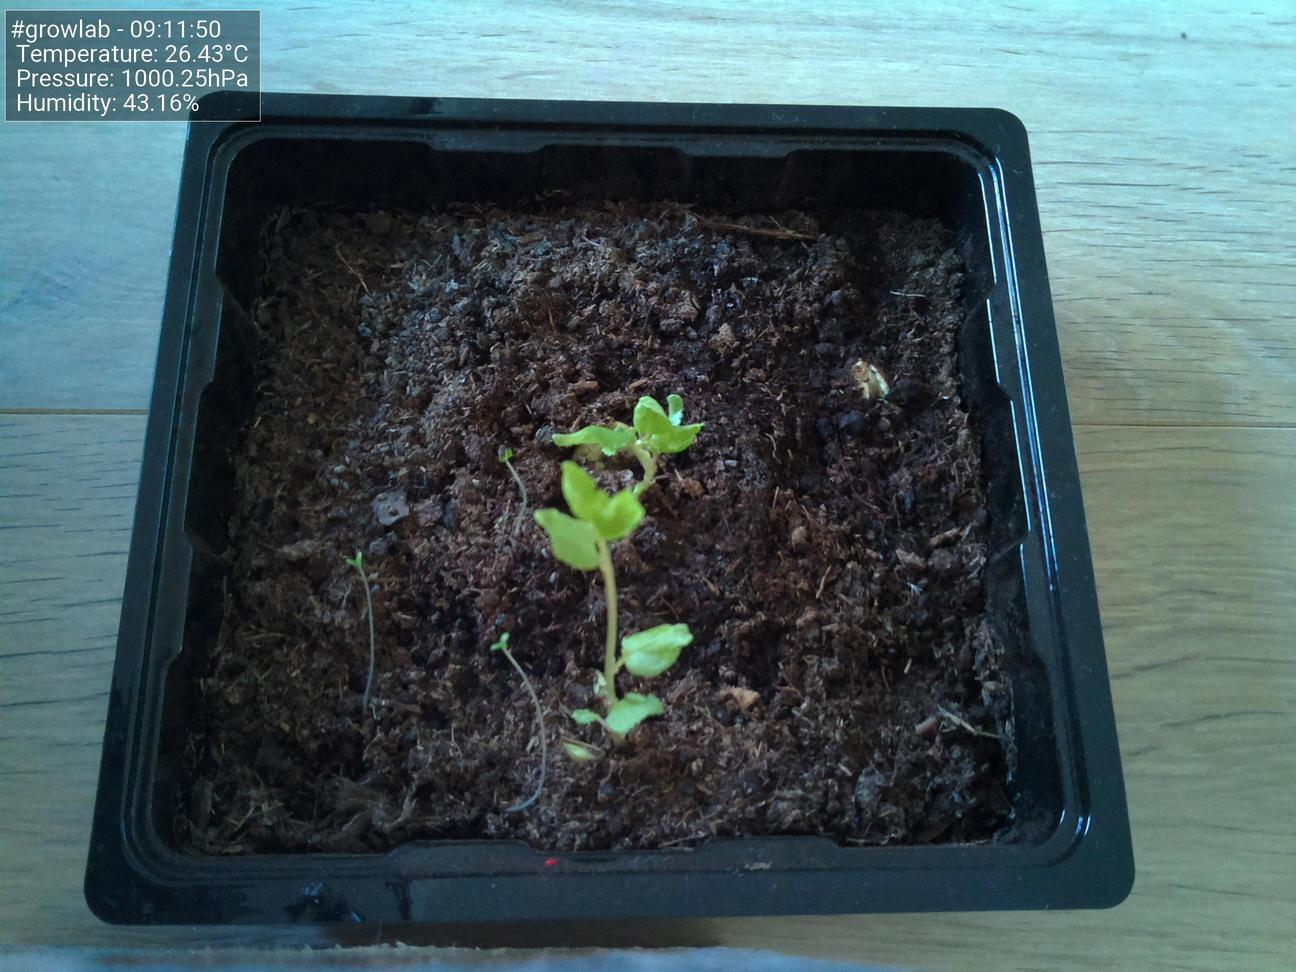
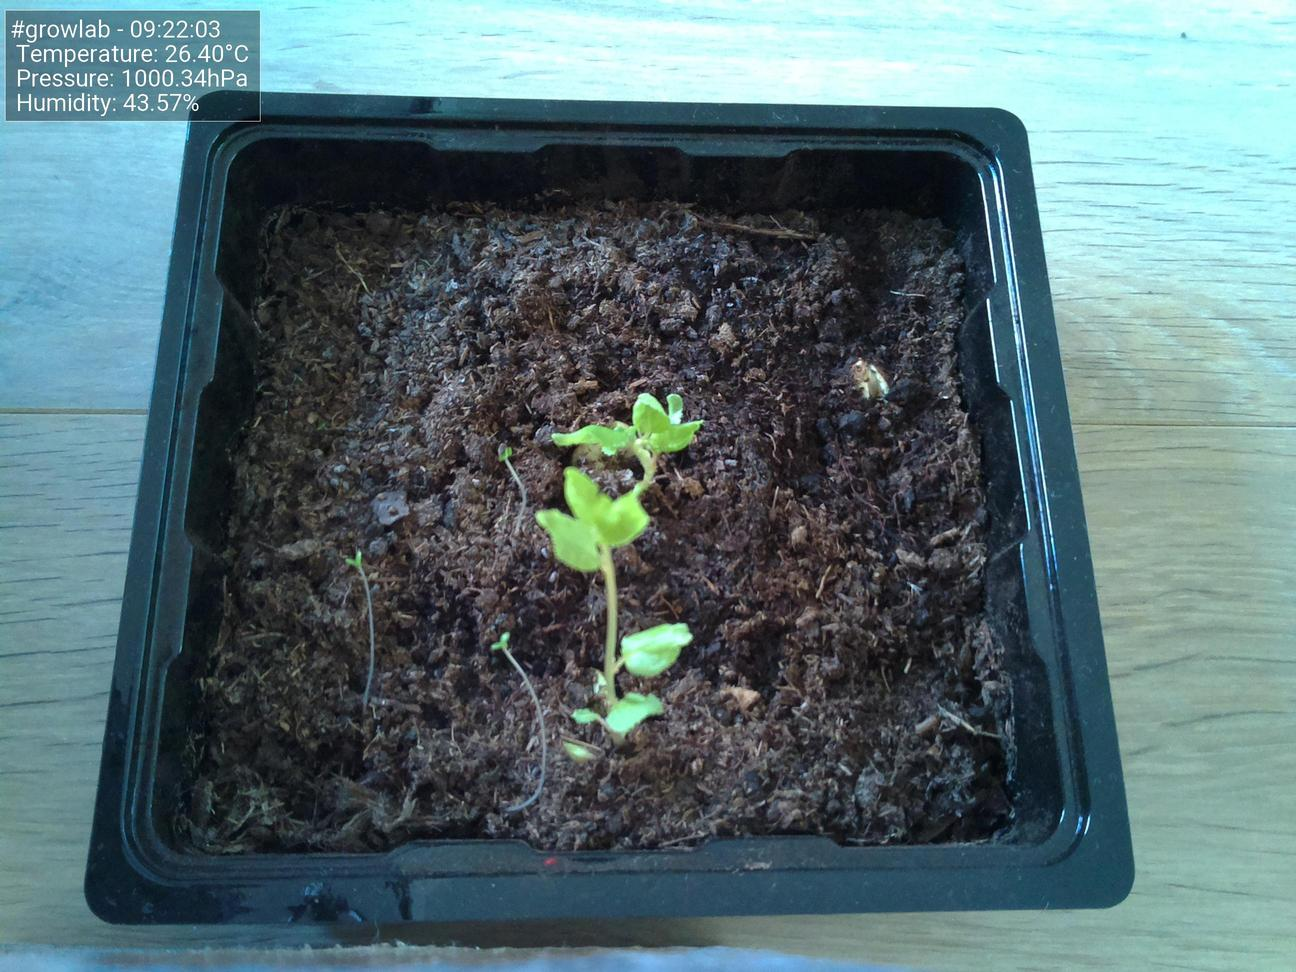
Update images at Thu 10 Jun 09:22:07 CEST 2021

diff --git a/docs/index.html b/docs/index.html
@@ -47,19 +47,19 @@
                         <tbody>
                             <tr>
                                 <td>Time</td>
-                                <td>09:11:50</td>
+                                <td>09:22:03</td>
                             </tr>
                             <tr>
                                 <td>Temperature</td>
-                                <td>26.43°C</td>
+                                <td>26.40°C</td>
                             </tr>
                             <tr>
                                 <td>Humidity</td>
-                                <td>43.16%</td>
+                                <td>43.57%</td>
                             </tr>
                             <tr>
                                 <td>Pressure</td>
-                                <td>1000.25hPa</td>
+                                <td>1000.34hPa</td>
                             </tr>
                         </tbody>
                     </table>
@@ -67,7 +67,7 @@
 
                 <h5>Latest image</h5>
                 <div style="width: 85%;">
-                            <img class="figure-img img-fluid rounded" src="./preview.jpg?uid=1623309114.988906">
+                            <img class="figure-img img-fluid rounded" src="./preview.jpg?uid=1623309727.2472134">
                 </div>
             </div>
         </div>
